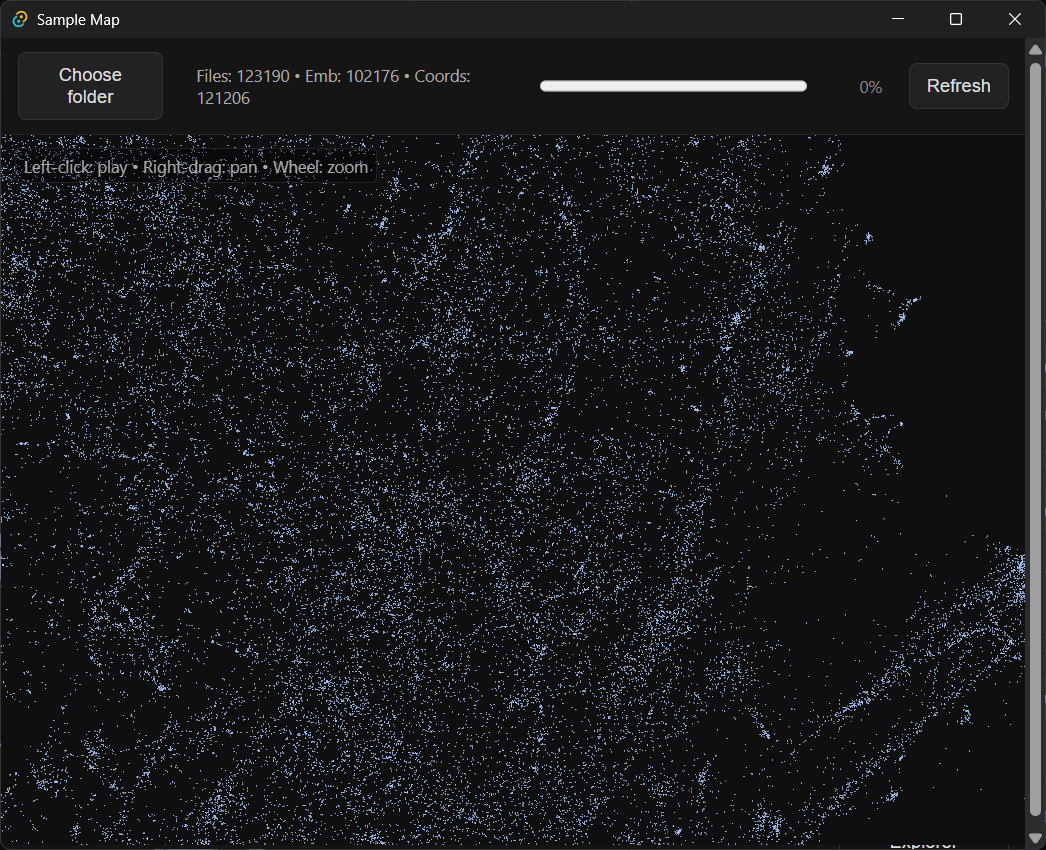
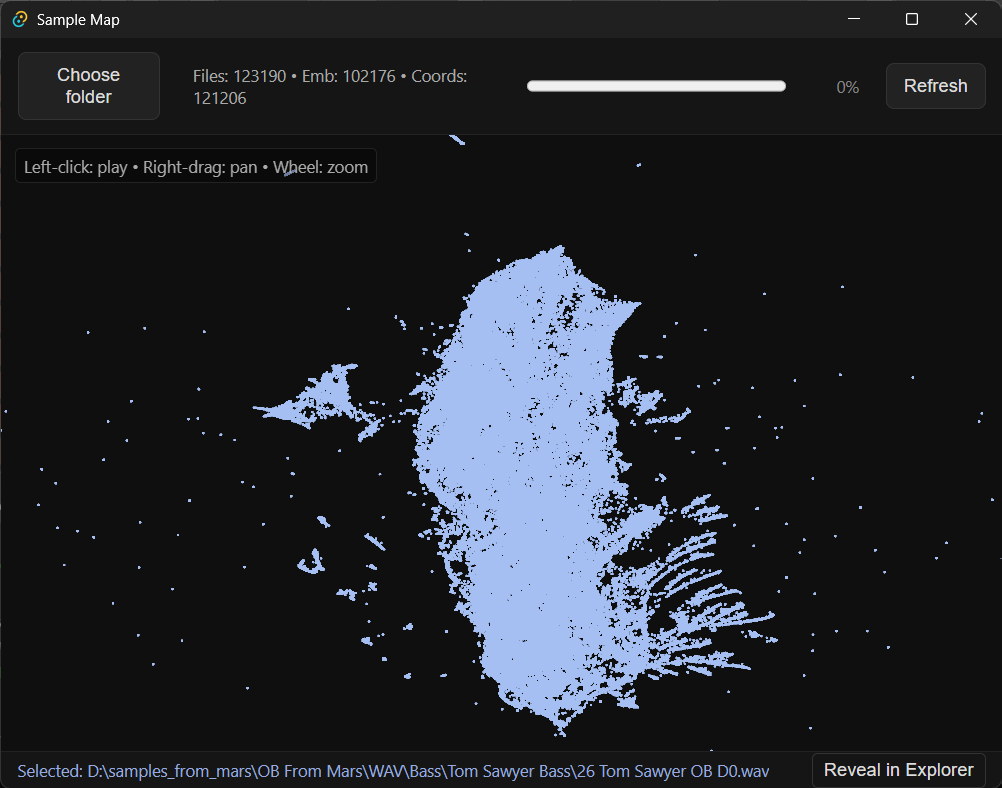
Load data on startup; update ss

diff --git a/src/main.ts b/src/main.ts
@@ -60,6 +60,9 @@ async function loadCoords() {
   idToPath.clear()
 }
 
+// Load any cached map data on startup so the user doesn't need to refresh
+void loadCoords()
+
 chooseBtn.addEventListener('click', async () => {
   let dir: string | null = null
   try {
